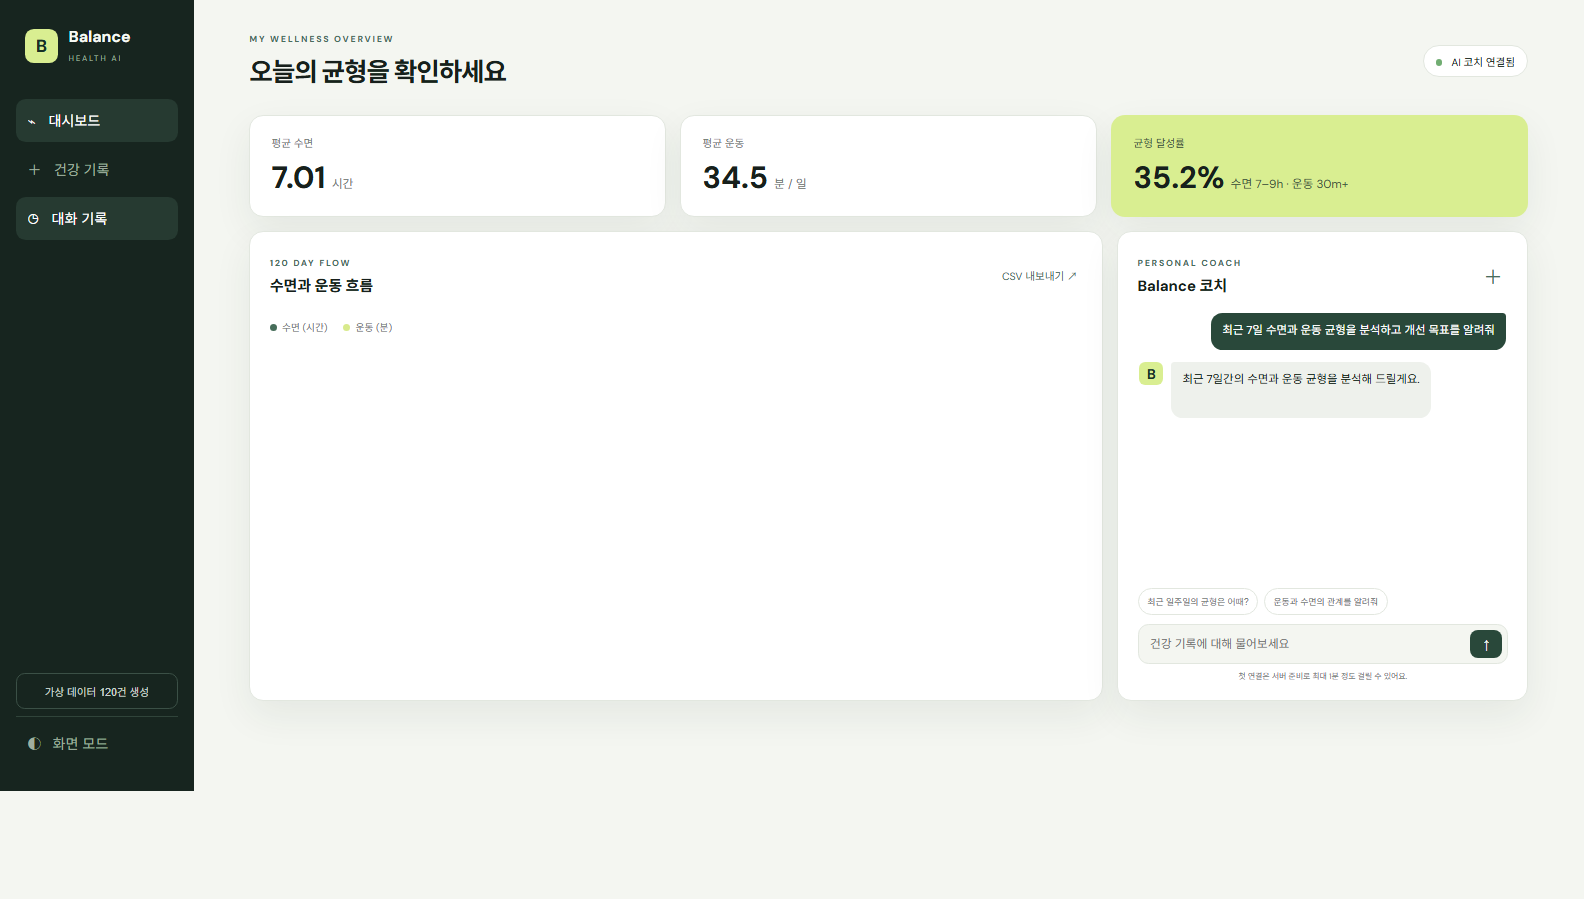
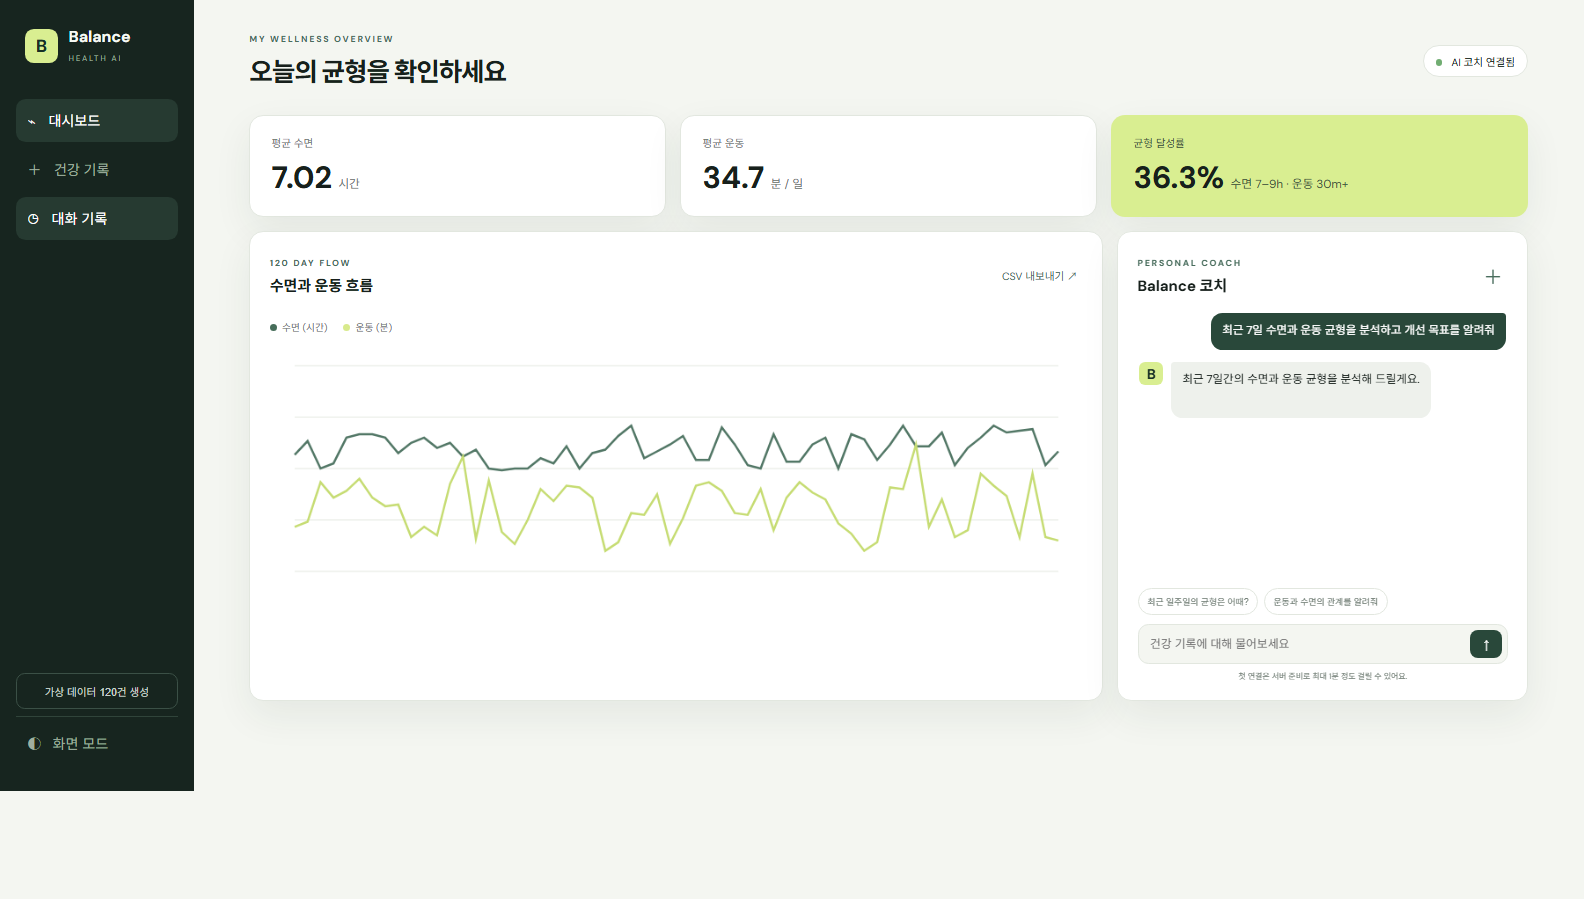
fix: stabilize AI answers and submission capture

diff --git a/scripts/capture_submission.py b/scripts/capture_submission.py
@@ -1,6 +1,6 @@
 """배포된 Balance AI를 자동 조작해 제출용 스크린샷을 만든다."""
 
-from datetime import date
+from datetime import date, timedelta
 from pathlib import Path
 import shutil
 import tempfile
@@ -22,10 +22,12 @@ def choose_unused_date() -> str:
     response = requests.get(f"{API_URL}/api/data", timeout=90)
     response.raise_for_status()
     used = {row["date"] for row in response.json()}
-    for candidate in ("2025-01-15", "2025-02-15", "2025-03-15", "2025-04-15"):
+    start = date(2024, 1, 1)
+    for offset in range(365):
+        candidate = (start + timedelta(days=offset)).isoformat()
         if candidate not in used:
             return candidate
-    raise RuntimeError("캡처용 날짜 후보가 모두 사용 중입니다.")
+    raise RuntimeError("캡처용 날짜를 찾을 수 없습니다.")
 
 
 def capture() -> None:
@@ -52,11 +54,12 @@ def capture() -> None:
         wait.until(lambda d: d.find_elements(By.CSS_SELECTOR, ".metric b")[0].text != "—")
         driver.execute_script("document.body.style.zoom='0.88'")
 
-        chat_input = driver.find_element(By.ID, "chatInput")
-        chat_input.send_keys("최근 7일 수면과 운동 균형을 분석하고 개선 목표를 알려줘")
-        driver.find_element(By.ID, "chatForm").submit()
-        wait.until(lambda d: not d.find_elements(By.ID, "loadingMessage"))
-        wait.until(lambda d: len(d.find_elements(By.CSS_SELECTOR, ".message.assistant")) >= 2)
+        # 이미 저장된 실제 AI 대화를 불러와 무료 API 할당량과 무관하게 재현한다.
+        driver.find_element(By.CSS_SELECTOR, '[data-tab="history"]').click()
+        wait.until(EC.visibility_of_element_located((By.CSS_SELECTOR, ".conversation")))
+        driver.execute_script("document.querySelector('.conversation').click()")
+        wait.until(EC.visibility_of_element_located((By.ID, "messages")))
+        wait.until(lambda d: len(d.find_elements(By.CSS_SELECTOR, ".message")) >= 2)
         driver.save_screenshot(str(OUTPUT_DIR / "01-dashboard-ai-chat.png"))
 
         driver.find_element(By.CSS_SELECTOR, '[data-tab="records"]').click()
@@ -75,10 +78,6 @@ def capture() -> None:
             element.clear()
             element.send_keys(value)
         driver.find_element(By.ID, "recordForm").submit()
-        wait.until(lambda d: "show" in d.find_element(By.ID, "toast").get_attribute("class"))
-        toast_text = driver.find_element(By.ID, "toast").text
-        if "추가했습니다" not in toast_text:
-            raise RuntimeError(f"CRUD 저장 실패: {toast_text}")
         wait.until(lambda d: capture_date in d.find_element(By.ID, "recordRows").text)
         driver.save_screenshot(str(OUTPUT_DIR / "02-data-crud.png"))
 

diff --git a/backend/app/services.py b/backend/app/services.py
@@ -38,7 +38,7 @@ def build_system_prompt(summary: dict) -> str:
 - 지표: {summary['metrics']}
 - 최근 7일 추세: {summary['trend']}
 - 인사이트: {summary['insight']}
-위 데이터에 근거해 수치를 인용하고 모르는 내용은 추측하지 마세요. 의료 진단을 내리지 말고 이상 증상은 의료진 상담을 권하세요. 한국어로 간결하고 실행 가능하게 답하세요."""
+위 데이터에 근거해 수치를 인용하고 모르는 내용은 추측하지 마세요. 분석하겠다는 예고만 하지 말고 첫 문장부터 분석 결과를 제시하세요. 의료 진단을 내리지 말고 이상 증상은 의료진 상담을 권하세요. 한국어로 간결하고 실행 가능하게 답하세요."""
 
 
 def ask_ai(messages: list[dict], summary: dict) -> str:
@@ -60,7 +60,8 @@ def ask_ai(messages: list[dict], summary: dict) -> str:
         contents=contents,
         config=types.GenerateContentConfig(
             system_instruction=build_system_prompt(summary),
-            max_output_tokens=500,
+            max_output_tokens=700,
+            thinking_config=types.ThinkingConfig(thinking_budget=0),
         ),
     )
     if not response.text:

diff --git a/README.md b/README.md
@@ -139,7 +139,7 @@ python scripts/capture_submission.py
 
 ## 보안·비용 안내
 
-키 파일과 `.env`는 `.gitignore`에 포함되어 있습니다. 브라우저에는 Gemini/Firebase 비밀 키를 넣지 않습니다. Gemini 호출은 최근 메시지 12개, 출력 500토큰으로 제한했습니다. CORS는 등록한 로컬/배포 출처만 허용하며, 운영 환경에서 `*` 사용은 권장하지 않습니다.
+키 파일과 `.env`는 `.gitignore`에 포함되어 있습니다. 브라우저에는 Gemini/Firebase 비밀 키를 넣지 않습니다. Gemini 호출은 최근 메시지 12개, 출력 700토큰으로 제한했습니다. CORS는 등록한 로컬/배포 출처만 허용하며, 운영 환경에서 `*` 사용은 권장하지 않습니다.
 
 ### 과제 명세와 Gemini 사용
 
